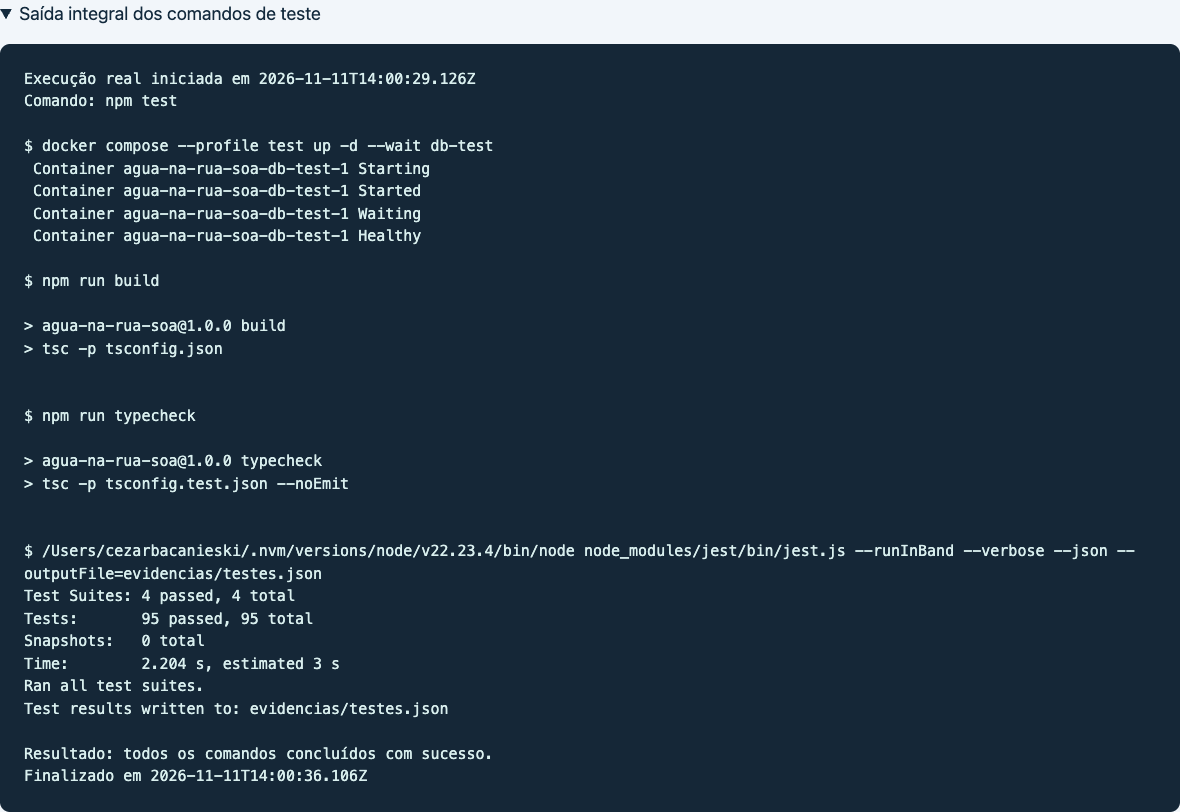
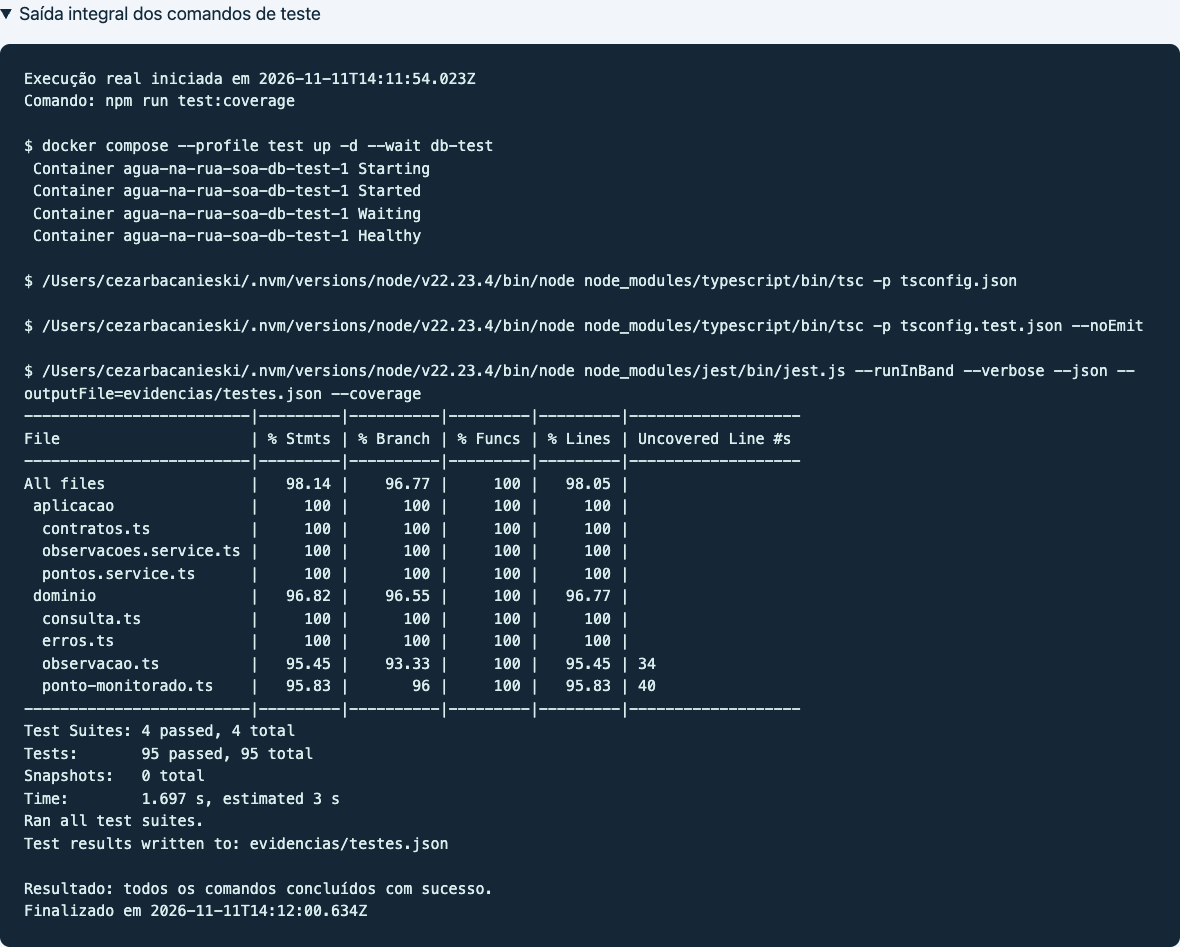
fix: run test tooling directly with Node

diff --git a/evidencias/relatorio.html b/evidencias/relatorio.html
@@ -1,12 +1,12 @@
 <!doctype html><html lang="pt-BR"><meta charset="utf-8"><title>Água na Rua - evidências reais</title>
   <style>body{font:18px/1.6 system-ui;background:#f2f6fa;color:#132a3d;margin:0;padding:48px}main{max-width:1180px;margin:auto}h1{font-size:36px;margin:0}h2{font-size:24px;margin-top:32px}.sub{color:#526978}.kpis{display:flex;gap:20px;margin:28px 0}.kpi{background:white;border:1px solid #c7d6e2;border-radius:10px;padding:20px;flex:1}.n{display:block;color:#07746c;font-size:42px;font-weight:700}table{width:100%;border-collapse:collapse;background:white}td,th{padding:12px 16px;text-align:left;border:1px solid #c7d6e2}pre{background:#152737;color:#d9efee;padding:24px;border-radius:10px;white-space:pre-wrap;overflow-wrap:anywhere;font:15px/1.5 ui-monospace,monospace}li{margin:6px 0}details{margin-top:20px}</style>
-  <main><h1>Água na Rua · Verificação do backend</h1><p class="sub">Relatório gerado de execuções reais, não uma captura de terminal.<br>Captura: 2026-11-11T14:02:06.903Z · PostgreSQL 17 · Node v22.23.4</p>
+  <main><h1>Água na Rua · Verificação do backend</h1><p class="sub">Relatório gerado de execuções reais, não uma captura de terminal.<br>Captura: 2026-11-11T14:12:02.814Z · PostgreSQL 17 · Node v22.23.4</p>
   <div class="kpis"><div class="kpi"><span class="n">95</span>testes aprovados</div><div class="kpi"><span class="n">0</span>testes reprovados</div><div class="kpi"><span class="n">3</span>migrações aplicadas</div></div>
   <h2>Suítes executadas</h2><table><tr><th>Arquivo</th><th>Testes</th><th>Resultado</th></tr><tr><td>integracao/api.spec.ts</td><td>46</td><td>passed</td></tr><tr><td>ferramentas/evidencias.spec.ts</td><td>1</td><td>passed</td></tr><tr><td>integracao/migracoes.spec.ts</td><td>3</td><td>passed</td></tr><tr><td>unidade/dominio.spec.ts</td><td>45</td><td>passed</td></tr></table>
   <h2>Histórico lido do banco da aplicação</h2><ol><li>CriaPontosEObservacoes1794394800000</li><li>AdicionaReferenciaEIndices1794394801000</li><li>CarregaDemonstracao1794394802000</li></ol>
   <h2>Respostas HTTP observadas</h2><table><tr><th>Requisição</th><th>Status</th></tr><tr><td>GET /pontos</td><td>200</td></tr><tr><td>GET /pontos/11111111-1111-4111-8111-111111111111/resumo</td><td>200</td></tr><tr><td>GET /pontos/22222222-2222-4222-8222-222222222222/resumo</td><td>200</td></tr><tr><td>GET /pontos/invalido</td><td>400</td></tr><tr><td>DELETE /pontos/22222222-2222-4222-8222-222222222222</td><td>409</td></tr><tr><td>POST /pontos/22222222-2222-4222-8222-222222222222/observacoes</td><td>422</td></tr></table>
-  <details><summary>Saída integral dos comandos de teste</summary><pre>Execução real iniciada em 2026-11-11T14:00:29.126Z
-Comando: npm test
+  <details><summary>Saída integral dos comandos de teste</summary><pre>Execução real iniciada em 2026-11-11T14:11:54.023Z
+Comando: npm run test:coverage
 
 $ docker compose --profile test up -d --wait db-test
  Container agua-na-rua-soa-db-test-1 Starting 
@@ -14,26 +14,32 @@ $ docker compose --profile test up -d --wait db-test
  Container agua-na-rua-soa-db-test-1 Waiting 
  Container agua-na-rua-soa-db-test-1 Healthy 
 
-$ npm run build
+$ /Users/cezarbacanieski/.nvm/versions/node/v22.23.4/bin/node node_modules/typescript/bin/tsc -p tsconfig.json
 
-&gt; agua-na-rua-soa@1.0.0 build
-&gt; tsc -p tsconfig.json
+$ /Users/cezarbacanieski/.nvm/versions/node/v22.23.4/bin/node node_modules/typescript/bin/tsc -p tsconfig.test.json --noEmit
 
-
-$ npm run typecheck
-
-&gt; agua-na-rua-soa@1.0.0 typecheck
-&gt; tsc -p tsconfig.test.json --noEmit
-
-
-$ /Users/cezarbacanieski/.nvm/versions/node/v22.23.4/bin/node node_modules/jest/bin/jest.js --runInBand --verbose --json --outputFile=evidencias/testes.json
+$ /Users/cezarbacanieski/.nvm/versions/node/v22.23.4/bin/node node_modules/jest/bin/jest.js --runInBand --verbose --json --outputFile=evidencias/testes.json --coverage
+-------------------------|---------|----------|---------|---------|-------------------
+File                     | % Stmts | % Branch | % Funcs | % Lines | Uncovered Line #s 
+-------------------------|---------|----------|---------|---------|-------------------
+All files                |   98.14 |    96.77 |     100 |   98.05 |                   
+ aplicacao               |     100 |      100 |     100 |     100 |                   
+  contratos.ts           |     100 |      100 |     100 |     100 |                   
+  observacoes.service.ts |     100 |      100 |     100 |     100 |                   
+  pontos.service.ts      |     100 |      100 |     100 |     100 |                   
+ dominio                 |   96.82 |    96.55 |     100 |   96.77 |                   
+  consulta.ts            |     100 |      100 |     100 |     100 |                   
+  erros.ts               |     100 |      100 |     100 |     100 |                   
+  observacao.ts          |   95.45 |    93.33 |     100 |   95.45 | 34                
+  ponto-monitorado.ts    |   95.83 |       96 |     100 |   95.83 | 40                
+-------------------------|---------|----------|---------|---------|-------------------
 Test Suites: 4 passed, 4 total
 Tests:       95 passed, 95 total
 Snapshots:   0 total
-Time:        2.204 s, estimated 3 s
+Time:        1.697 s, estimated 3 s
 Ran all test suites.
 Test results written to: evidencias/testes.json
 
 Resultado: todos os comandos concluídos com sucesso.
-Finalizado em 2026-11-11T14:00:36.106Z
+Finalizado em 2026-11-11T14:12:00.634Z
 </pre></details></main></html>

diff --git a/prompts.md b/prompts.md
@@ -91,3 +91,14 @@ Este arquivo registra o uso de IA nesta pasta a partir de 11/11/2026. Prompts an
 **Correção de escopo:** a publicação inicial incluiu a pasta GS inteira. A entrega foi reorganizada para que apenas o projeto de SOA ocupe a raiz do repositório. O Git local passa a pertencer a `GS/soa`; enunciados e materiais gerais permanecem em `GS`, fora desse repositório.
 
 **Organização:** README específico de SOA, ficha comum, integrantes, código, migrações, configuração de exemplo, testes, documentação automática, evidências e este registro de IA. PLANO.md e REVISAO-SOA.md permanecem locais e ignorados pelo Git. Os links e as instruções de execução foram ajustados para o projeto independente. O histórico de commits será preservado, sem force push; os arquivos gerais deixam a versão atual do repositório.
+
+
+## 11/11/2026 - Auditoria da entrega publicada de SOA
+
+**Pedido do usuário (transcrição):**
+
+> verifique se 100% da netrega de soa etsa correamente no repositorio, se vamso tirar nota maxima cumpridno todos os requisitos, atue como um engenehiro de softwrae seniro analisando cada requisito de entrgea vs oq estamso entrgando no repositorio
+
+**Apoio da IA:** comparação da versão pública com os cinco critérios do PDF e os 22 subitens do guia HTML; clone novo por HTTPS, instalação pelo lockfile, migrações, testes, persistência entre processos, contrato e execução pelo Swagger. O clone inicial do commit 50b6bfa passou em 95 testes. Foi identificado e corrigido um ponto de portabilidade no executor: o compilador agora é iniciado com Node, evitando chamada direta a npm.cmd no Windows. A limitação foi conferida na documentação oficial de child_process do Node. A validação efetivamente executada usa macOS e PostgreSQL em Linux/Docker; não se afirma execução em Windows.
+
+**Escopo da avaliação:** nenhum item técnico ausente foi identificado no recorte fornecido. Nota é atribuída pelo professor; envio do link no Teams/Portal, pesquisa territorial e compreensão do código pelos integrantes não são comprovados pelos testes. O relatório detalhado permanece como nota local em REVISAO-SOA.md.
